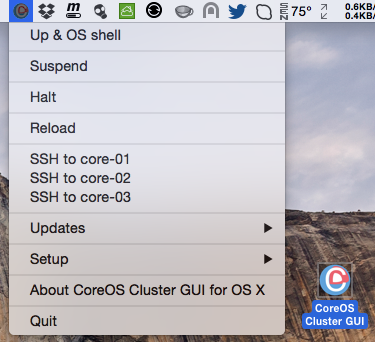
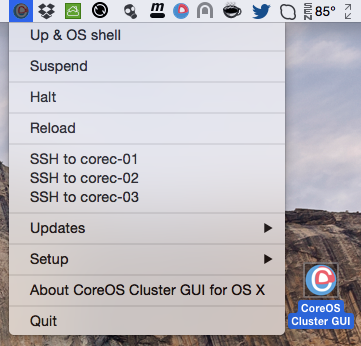
Update to v0.6

diff --git a/src/CoreOS Cluster GUI/AppDelegate.m b/src/CoreOS Cluster GUI/AppDelegate.m
@@ -34,10 +34,29 @@
     }
     else
     {
-        NSString *msg = [NSString stringWithFormat:@"%@ ", @"CoreOS-Vagrant Cluster was not set, run from menu 'Setup' - 'Initial setup of CoreOS-Vagrant Cluster' to do that !!! "];
-        [self displayWithMessage:@"CoreOS-Vagrant Cluster" infoText:msg];
+ //       NSString *msg = [NSString stringWithFormat:@"%@ ", @"CoreOS-Vagrant Cluster was not set, run from menu 'Setup' - 'Initial setup of CoreOS-Vagrant Cluster' !!! "];
+ //       [self displayWithMessage:@"CoreOS-Vagrant Cluster" infoText:msg];
+        
+        NSAlert *alert = [[NSAlert alloc] init];
+        [alert addButtonWithTitle:@"OK"];
+        [alert addButtonWithTitle:@"Cancel"];
+        [alert setMessageText:@"CoreOS-Vagrant Cluster was not set."];
+        [alert setInformativeText:@"Do you want to set it up?"];
+        [alert setAlertStyle:NSWarningAlertStyle];
+        
+        if ([alert runModal] == NSAlertFirstButtonReturn) {
+            // OK clicked
+            [self initialInstall:self];
+        }
+        else
+        {
+            // Cancel clicked
+            NSString *msg = [NSString stringWithFormat:@"%@ ", @" 'Initial setup of CoreOS-Vagrant Cluster' at any time later one !!! "];
+            [self displayWithMessage:@"You can set Cluster from menu 'Setup':" infoText:msg];
+        }
+
     }
-}
+};
 
 
 - (IBAction)Start:(id)sender {
@@ -60,16 +79,31 @@
     }
     else
     {
-        NSString *msg = [NSString stringWithFormat:@"%@ ", @"App was not installed, run from menu 'Setup/Update' - 'Initial setup of CoreOS-Vagrant Cluster' !!! "];
-        [self displayWithMessage:@"CoreOS-Vagrant Cluster" infoText:msg];
+        NSAlert *alert = [[NSAlert alloc] init];
+        [alert addButtonWithTitle:@"OK"];
+        [alert addButtonWithTitle:@"Cancel"];
+        [alert setMessageText:@"CoreOS-Vagrant Cluster was not set."];
+        [alert setInformativeText:@"Do you want to set it up?"];
+        [alert setAlertStyle:NSWarningAlertStyle];
         
+        if ([alert runModal] == NSAlertFirstButtonReturn) {
+            // OK clicked
+            [self initialInstall:self];
+        }
+        else
+        {
+            // Cancel clicked
+            NSString *msg = [NSString stringWithFormat:@"%@ ", @" 'Initial setup of CoreOS-Vagrant Cluster' at any time later one !!! "];
+            [self displayWithMessage:@"You can set Cluster from menu 'Setup':" infoText:msg];
+        }
     }
 }
+
 
 - (IBAction)Pause:(id)sender {
     // send a notification on to the screen
     NSUserNotification *notification = [[NSUserNotification alloc] init];
-    notification.informativeText = @"coreos-vagrant cluster will be suspended";
+    notification.informativeText = @"CoreOS-Vagrant Cluster will be suspended";
     [[NSUserNotificationCenter defaultUserNotificationCenter] deliverNotification:notification];
     
     NSString *scriptName = [[NSString alloc] init];
@@ -82,7 +116,7 @@
 - (IBAction)Stop:(id)sender {
     // send a notification on to the screen
     NSUserNotification *notification = [[NSUserNotification alloc] init];
-    notification.informativeText = @"coreos-vagrant cluster will be stopped";
+    notification.informativeText = @"CoreOS-Vagrant Cluster will be stopped";
     [[NSUserNotificationCenter defaultUserNotificationCenter] deliverNotification:notification];
     
     NSString *scriptName = [[NSString alloc] init];
@@ -95,7 +129,7 @@
 - (IBAction)Restart:(id)sender {
     // send a notification on to the screen
     NSUserNotification *notification = [[NSUserNotification alloc] init];
-    notification.informativeText = @"coreos-vagrant cluster will be reloaded";
+    notification.informativeText = @"CoreOS-Vagrant Cluster will be reloaded";
     [[NSUserNotificationCenter defaultUserNotificationCenter] deliverNotification:notification];
     
     NSString *appName = [[NSString alloc] init];
@@ -136,7 +170,7 @@
 - (IBAction)changeReleaseChannel:(id)sender {
     // send a notification on to the screen
     NSUserNotification *notification = [[NSUserNotification alloc] init];
-    notification.informativeText = @"coreos-vagrant release channel change";
+    notification.informativeText = @"CoreOS-Vagrant Cluster release channel change";
     [[NSUserNotificationCenter defaultUserNotificationCenter] deliverNotification:notification];
     
     NSString *appName = [[NSString alloc] init];
@@ -149,7 +183,7 @@
 - (IBAction)destroy:(id)sender {
     // send a notification on to the screen
     NSUserNotification *notification = [[NSUserNotification alloc] init];
-    notification.informativeText = @"coreos-vagrant cluster will be destroyed";
+    notification.informativeText = @"CoreOS-Vagrant Cluster will be destroyed";
     [[NSUserNotificationCenter defaultUserNotificationCenter] deliverNotification:notification];
     
     NSString *appName = [[NSString alloc] init];
@@ -195,7 +229,7 @@
 - (IBAction)runSsh1:(id)sender {
     // send a notification on to the screen
     NSUserNotification *notification = [[NSUserNotification alloc] init];
-    notification.informativeText = @"vagrant ssh shell to core-01 will be opened";
+    notification.informativeText = @"vagrant ssh shell to corec-01 will be opened";
     [[NSUserNotificationCenter defaultUserNotificationCenter] deliverNotification:notification];
     
     NSString *appName = [[NSString alloc] init];
@@ -206,7 +240,7 @@
 - (IBAction)runSsh2:(id)sender {
     // send a notification on to the screen
     NSUserNotification *notification = [[NSUserNotification alloc] init];
-    notification.informativeText = @"vagrant ssh shell to core-02 will be opened";
+    notification.informativeText = @"vagrant ssh shell to corec-02 will be opened";
     [[NSUserNotificationCenter defaultUserNotificationCenter] deliverNotification:notification];
     
     NSString *appName = [[NSString alloc] init];
@@ -217,7 +251,7 @@
 - (IBAction)runSsh3:(id)sender {
     // send a notification on to the screen
     NSUserNotification *notification = [[NSUserNotification alloc] init];
-    notification.informativeText = @"vagrant ssh shell to core-03 will be opened";
+    notification.informativeText = @"vagrant ssh shell to corec-03 will be opened";
     [[NSUserNotificationCenter defaultUserNotificationCenter] deliverNotification:notification];
     
     NSString *appName = [[NSString alloc] init];

diff --git a/src/config.rb b/src/config.rb
@@ -1,4 +1,4 @@
-## Start - Inserted by CoreOS-Vagrant GUI App
+## Start - Inserted by CoreOS-Vagrant Cluster GUI App
 # Automatically set the discovery token on 'vagrant up'
 #
 if File.exists?('user-data') && ARGV[0].eql?('up')
@@ -14,4 +14,4 @@ if File.exists?('user-data') && ARGV[0].eql?('up')
   File.open('user-data', 'w') { |file| file.write("#cloud-config\n\n#{yaml}") }
 end
 #
-## End - Inserted by CoreOS-Vagrant GUI App
+## End - Inserted by CoreOS-Vagrant Cluster GUI App

diff --git a/README.md b/README.md
@@ -23,13 +23,14 @@ Required software
 * Start the `CoreOS Cluster GUI` and from menu `Setup` choose `Initial setup of CoreOS-Vagrant Cluster` 
 * The install will do the following:
 ````
-1) All dependent files/folders will be put under "coreos-osx-cluster" folder in the user's home folder e.g /Users/someuser/coreos-osx-cluster
+1) All dependent files/folders will be put under 'coreos-osx-cluster' folder in the user's 
+home folder e.g '/Users/someuser/coreos-osx-cluster'
 2) Will clone latest coreos-vagrant from git
 3) user-data file will have fleet and etcd set
-4) 3 cluster nodes will be set with IPs: '172.17.8.100, 172.17.8.101 and 172.17.8.102'
+4) 3 cluster nodes will be set with IPs: '172.17.9.100, 172.17.9.101 and 172.17.9.102'
 5) Will download and install fleetctl and etcdctl clients to ~/coreos-osx-cluster/bin/
 6) Will download latest vagrant VBox and run vagrant up to initialise VM
-8) Will forward port 2322 from localhost to core-01 ssh port 22.
+8) Will forward port 2322 from localhost to corec-01 ssh port 22.
 ````
 
 How it works
@@ -40,13 +41,15 @@ Just start `CoreOS Cluster GUI` application and you will find a small icon with 
 * There you can `Up`, `Suspend`, `Halt`, `Reload` CoreOS vagrant VMs
 * Under `Up & OS shell` OS Shell will be opened when `vagrant up` finishes and it will have such environment set:
 ````
-1) Path to ~/coreos-osx-cluster/bin where etcdclt and fleetctl binaries are stored
-2) FLEETCTL_TUNNEL=127.0.0.1:2322 for the fleetctl tunnel to work properly
+1) etcd discovey token will be automaticly replaced from 'https://discovery.etcd.io/new' 
+on each 'vagrant up'
+2) Path to ~/coreos-osx-cluster/bin where etcdclt and fleetctl binaries are stored
+3) FLEETCTL_TUNNEL=127.0.0.1:2322 for the fleetctl tunnel to work properly
 ````
 
-* `Updates/Force CoreOS update` will run `sudo update_engine_client -update` on CoreOS VMs.
+* `Updates/Force CoreOS update` will be run `sudo update_engine_client -update` on each CoreOS VM.
 * `Updates/Check for updates` will update etcdclt and fleetctl OS X clients to the same versions as CoreOS VMs run. It will store downloads from github `coreos-vagrant` in `~/coreos-osx-cluster/github` folder, it will not overwrite user's `Vagrantfile, config.rb and users-data` files.
-* `SSH to core1/2/3` menu options will open VM shell
+* `SSH to corec-01/02/03` menu options will open VM shells
 
 
 Other links
